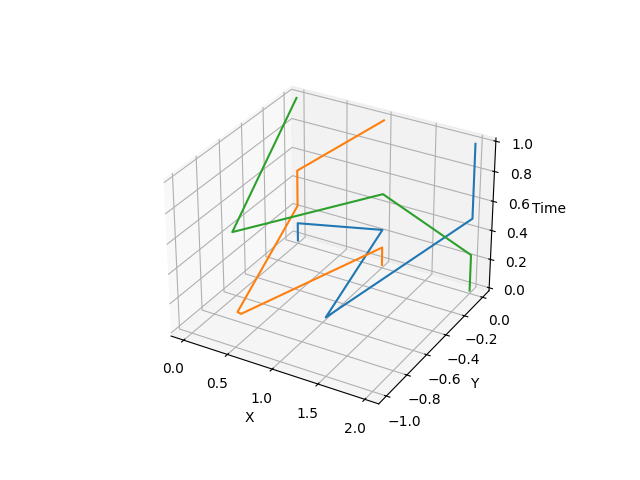
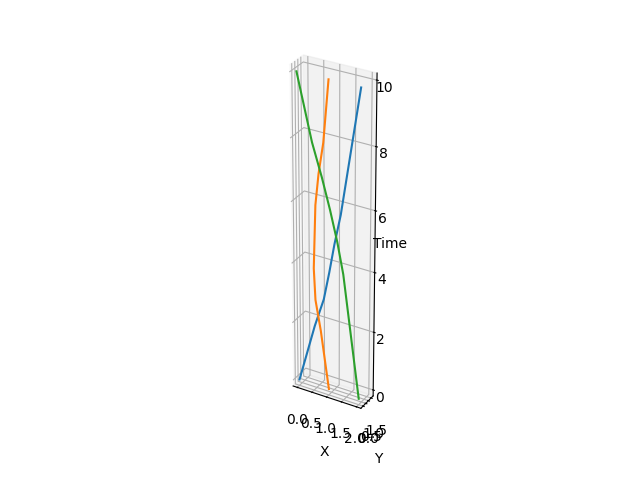
Add super basic optimizer. Needs a lot of clean up.

diff --git a/optimize.py b/optimize.py
@@ -1,0 +1,80 @@
+import braid_group
+import braid
+import numpy as np
+from scipy.optimize import minimize
+
+
+N = 4 # Number of agents.
+time_stamps = 21
+g0 = braid_group.Generator(0) 
+i1 = braid_group.InverseGenerator(1)
+g2 = braid_group.Generator(2)
+word = braid_group.Word(g0.Compose(i1).Compose(g0).Compose(g2))
+braid = braid.Braid.Create(word=word, num_strands=N)
+
+# Extract initial trajectories from braid.
+initial_trajectories = []
+for i in range(N):
+  trajectory = []
+  for t in range(time_stamps):
+    pose = braid.Strand(i).AtTime(t / (time_stamps - 1))
+    trajectory.append((pose[0], pose[1]))
+  initial_trajectories.append(trajectory)
+
+# Store start and end positions for hard constraints.
+start_positions = []
+end_positions = []
+for i in range (N):
+  start_positions.append(initial_trajectories[i][0])
+  end_positions.append(initial_trajectories[i][-1])
+
+# Define objective function: minimize total distance traveled
+def objective_function(positions_flat):
+    positions = positions_flat.reshape((N, time_stamps, 2))  # Reshape to 3D array
+    total_distance = 0
+    for i in range(N):
+        for t in range(time_stamps - 1):
+            total_distance += np.linalg.norm(positions[i, t] - positions[i, t+1])**2
+    return total_distance
+
+# Define constraints: No collisions
+def collision_constraints(positions_flat):
+    positions = positions_flat.reshape((N, time_stamps, 2))  # Reshape to 3D array
+    constraint_values = []
+    for t in range(time_stamps):
+        for i in range(N):
+            for j in range(i+1, N):
+                constraint_values.append(np.linalg.norm(positions[i, t] - positions[j, t])**2 - 0.25)  # Collision constraint
+    return np.array(constraint_values)
+
+# Define constraints: Start and end positions
+def start_end_constraints(positions_flat):
+    positions = positions_flat.reshape((N, time_stamps, 2))  # Reshape to 3D array
+    constraint_values = []
+    for i in range(N):
+        constraint_values.append(positions[i, 0, 0] - start_positions[i][0])  # Start positions (x-coordinate)
+        constraint_values.append(positions[i, 0, 1] - start_positions[i][1])  # Start positions (y-coordinate)
+        constraint_values.append(positions[i, -1, 0] - end_positions[i][0])   # End positions (x-coordinate)
+        constraint_values.append(positions[i, -1, 1] - end_positions[i][1])   # End positions (y-coordinate)
+    return np.array(constraint_values)
+
+# Minimize the objective function subject to constraints
+result = minimize(objective_function, np.array(initial_trajectories).flatten(), constraints=[
+    {'type': 'ineq', 'fun': collision_constraints},
+    {'type': 'eq', 'fun': start_end_constraints}
+])
+
+# Reshape the optimized positions
+optimized_positions = result.x.reshape((N, time_stamps, 2))
+
+# Print optimized positions
+for i in range(N):
+    print(f"Agent {i+1} positions: {optimized_positions[i]}")
+
+# Print total distance traveled
+print("Total distance traveled:", result.fun)
+
+
+import utils
+utils.PlotTrajectories3D(utils.BraidToTrajectory(braid, time_stamps), time_stamps, 'before.png')
+utils.PlotTrajectories3D(optimized_positions, time_stamps, 'after.png')

diff --git a/utils.py b/utils.py
@@ -1,0 +1,85 @@
+import braid
+import braid_group
+import matplotlib.pyplot as plt
+import numpy as np
+from typing import List, Tuple
+
+# Generates a set of agent trajectories for a given input braid. The output is an array of size:
+#    num_agents x num_timestamps x 2
+# where output[a][t][i] accesses the i'th coordinate at the t'th timestamp of the a'th agent.
+def BraidToTrajectory(braid: braid.Braid, num_timestamps = 10) -> List[List[Tuple[float, float]]]:
+  ts = np.linspace(0, 1, num_timestamps)
+  trajectories = []
+  num_agents = len(braid.strands)
+  for i in range(num_agents):
+    trajectory = []
+    for t in ts:
+      position = braid.Strand(i).AtTime(t)
+      trajectory.append((position[0], position[1]))
+    trajectories.append(trajectory)
+  return trajectories
+
+# Plot a set of input trajectories to an output file. This produces a 2x2 grid of subplots showing
+# various cross sections of the (x, y, t) input trajectories.
+def PlotTrajectories3D(trajectories: List[List[Tuple[float, float]]], 
+                       num_timestamps = 10, 
+                       save_file: str = 'braid_3d.png'):
+  ts = np.linspace(0, 1, num_timestamps)
+  num_agents = len(trajectories)
+  xs = {agent_idx: [] for agent_idx in range(num_agents)}
+  ys = {agent_idx: [] for agent_idx in range(num_agents)}
+
+  for agent in range(num_agents):
+    for position in trajectories[agent]:
+      xs[agent].append(position[0])
+      ys[agent].append(position[1])
+
+  fig = plt.figure()
+  fig, axes = plt.subplots(nrows=2, ncols=2, figsize=(14, 14))
+  colors = plt.cm.tab10(np.linspace(0, 1, num_agents))
+
+  # Set up 2D x-t cross section plot (top left corner).
+  ax_xt = axes[0, 0]
+  for i in range(num_agents):
+    ax_xt.plot(xs[i], ts, color=colors[i])
+  ax_xt.set_xlim([0, num_agents - 1])
+  ax_xt.set_ylim([0, 1])
+  ax_xt.set_xlabel('X')
+  ax_xt.set_ylabel('Time')
+  ax_xt.grid(True)
+  plt.axis('equal')
+
+  # Set up 2D y-t cross section plot (top right corner).
+  ax_yt = axes[0, 1]
+  for i in range(num_agents):
+    ax_yt.plot(ys[i], ts, color=colors[i])
+  ax_yt.set_ylim([0, 1])
+  ax_yt.set_xlabel('Y')
+  ax_yt.set_ylabel('Time')
+  ax_yt.grid(True)
+  plt.axis('equal')
+
+  # Set up 2D x-y cross section plot (bottom right corner).
+  ax_xy = axes[1, 0]
+  for i in range(num_agents):
+    ax_xy.plot(xs[i], ys[i], color=colors[i])
+  ax_xy.set_xlim([0, num_agents - 1])
+  ax_xy.set_xlabel('X')
+  ax_xy.set_ylabel('Y')
+  ax_xy.grid(True)
+  plt.axis('equal')
+
+  # Set up 3D plot (bottom right corner).
+  axes[1, 1].set_visible(False)
+  ax_3d = fig.add_subplot(2, 2, 4, projection='3d')
+  for i in range(num_agents):
+    ax_3d.plot(xs[i], ys[i], ts, color=colors[i])
+  ax_3d.set_xlabel('X')
+  ax_3d.set_ylabel('Y')
+  ax_3d.set_zlabel('Time')
+  ax_3d.set_xlim([0, num_agents - 1])
+  ax_3d.set_zlim([0, 1])
+  ax_3d.set_box_aspect([1, 1, 3])
+
+  plt.tight_layout()
+  plt.savefig(save_file)
